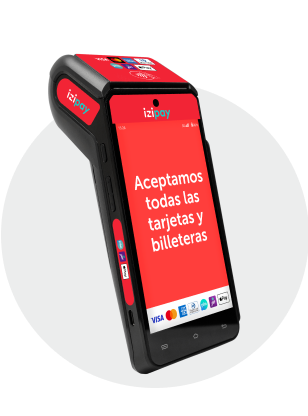
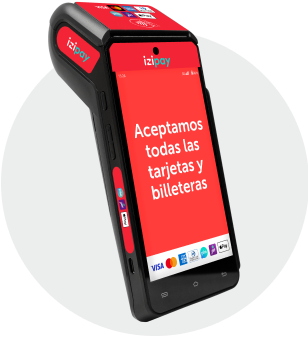
Creación de work 27 - cambio de imagenes - 3

Changed region(s): [[0.1461, 0.0, 0.789, 0.9792]]

diff --git a/works/work-27/styles.css b/works/work-27/styles.css
@@ -1,1 +1,1 @@
-@charset "UTF-8";:root{--primary:#00a94f;--secondary:#0039a6;--blue:#2f4a9f;--secondaryrgb:rgb(0,57,166);--light:#fbfbfb;--white:#fff;--silver:#d9dadb;--gray:#9b9b9b;--sky:#ccd7ed;--semiwhite:#f3f6fb;--skydark:#6688ca;--dark:#404040;--darkrgb:rgb(15,25,30);--blackrgb:rgb(15,25,30)}.mk-bold{font-weight:700}.mk-semibold{font-weight:500}.mk-container{margin:0 auto;width:100%;max-width:1066px}@media (max-width:1023px){.mk-container{padding:0 24px}}.mk-list--decimal{padding-left:20px;list-style:decimal}.mk-list--disc li{position:relative;padding-left:20px}.mk-list--disc li:before{display:-webkit-box;display:-ms-flexbox;display:flex;position:absolute;content:"·";font-size:30px;line-height:20px;left:6px;top:2px}.mkv27--overlay{background-color:rgba(0,0,0,0.4);position:fixed;top:0;bottom:0;left:0;right:0;width:100vw;height:100vh;z-index:99}.mkv27--popup{position:fixed;display:-webkit-box;display:-ms-flexbox;display:flex;-webkit-box-pack:center;-ms-flex-pack:center;justify-content:center;-webkit-box-align:center;-ms-flex-align:center;align-items:center;width:100vw;height:100vh;top:0;bottom:0;left:0;right:0;padding:16px}.mkv27 *{-webkit-box-sizing:border-box;box-sizing:border-box;margin:0;padding:0;border:none}.mkv27--wrapper{overflow:hidden;width:100%;max-width:600px;border-radius:8px;background:#fff;-webkit-box-shadow:0 4px 10px 0 #9b9b9b;box-shadow:0 4px 10px 0 #9b9b9b}.mkv27--wrapper__content{padding:24px}@media (min-width:480px){.mkv27--wrapper__content{padding:32px}}.mkv27--grid{display:-webkit-box;display:-ms-flexbox;display:flex;-webkit-box-orient:vertical;-webkit-box-direction:normal;-ms-flex-direction:column;flex-direction:column;position:relative}.mkv27--header{position:relative;width:100%}@media (min-width:560px){.mkv27--header__title{padding-left:52px;padding-right:52px}}.mkv27--close{position:relative;width:24px;height:24px;z-index:10}.mkv27--close:after,.mkv27--close:before{content:"";display:block;background:var(--white);margin-bottom:4px;border-radius:2px;width:28px;height:2px;position:absolute;left:50%;top:0;cursor:pointer}@media (min-width:480px){.mkv27--close:after,.mkv27--close:before{background:var(--dark)}}.mkv27--close:before{-webkit-transform:rotate(45deg) translate(-1px,18px);transform:rotate(45deg) translate(-1px,18px)}.mkv27--close:after{-webkit-transform:rotate(-45deg) translate(-18px,-1px);transform:rotate(-45deg) translate(-18px,-1px)}.mkv27--close__row{display:-webkit-box;display:-ms-flexbox;display:flex;-webkit-box-pack:end;-ms-flex-pack:end;justify-content:flex-end}.mkv27--body{width:100%;padding:32px 24px;display:-webkit-box;display:-ms-flexbox;display:flex;-webkit-box-orient:vertical;-webkit-box-direction:normal;-ms-flex-direction:column;flex-direction:column;-webkit-box-align:center;-ms-flex-align:center;align-items:center;-webkit-box-pack:center;-ms-flex-pack:center;justify-content:center}@media (min-width:560px){.mkv27--body{padding:40px 32px}}.mkv27--body__grid{display:-ms-grid;display:grid;-ms-grid-columns:2fr 5fr;grid-template-columns:2fr 5fr}.mkv27--title{color:#0f191e;width:100%;font-family:"Geometria";text-align:center;font-size:20px;line-height:24px;margin-bottom:12px;font-weight:500}.mkv27--title__magenta{color:#eb0045}@media (min-width:560px){.mkv27--title{font-size:28px;line-height:32px}}@media (min-width:767px){.mkv27--title{margin-bottom:24px}}.mkv27--content{color:#333;font-size:14px;font-family:"Geometria";letter-spacing:-0.1px;line-height:1.35;margin-bottom:32px}@media (min-width:560px){.mkv27--content{margin-bottom:40px;font-size:16px}}@media (min-width:767px){.mkv27--content{margin-bottom:48px;font-size:16px}}.mkv27--content strong{font-weight:600}.mkv27--btnsinline{display:-webkit-box;display:-ms-flexbox;display:flex;-webkit-box-orient:vertical;-webkit-box-direction:normal;-ms-flex-direction:column;flex-direction:column}@media (min-width:767px){.mkv27--btnsinline{-webkit-box-align:center;-ms-flex-align:center;align-items:center;-webkit-box-orient:horizontal;-webkit-box-direction:reverse;-ms-flex-direction:row-reverse;flex-direction:row-reverse}}.mkv27--btn{color:var(--white);font-family:"Geometria";font-size:16px;letter-spacing:normal;text-align:center;text-decoration:none;line-height:40px;border-radius:20px;background-color:var(--primary);display:-webkit-inline-box;display:-ms-inline-flexbox;display:inline-flex;white-space:nowrap;padding:0 28px;font-weight:500}@media (min-width:767px){.mkv27--btn{padding:0 28px;border-radius:24px;line-height:48px}}@media (max-width:766px){.mkv27--btn{margin-bottom:12px}}.mkv27--btn_white{color:var(--primary);font-family:"Geometria";font-size:16px;white-space:nowrap;letter-spacing:normal;text-align:center;text-decoration:none;line-height:40px;border-radius:20px;background-color:transparent;display:-webkit-inline-box;display:-ms-inline-flexbox;display:inline-flex;padding:0 24px;font-weight:500}@media (min-width:480px){.mkv27--btn_white{padding:0 24px;border-radius:24px;line-height:48px}}@media (min-width:480px){.mkv27--picture{height:100%;width:100%;display:-webkit-box;display:-ms-flexbox;display:flex}}.mkv27--picture_content{width:100%;position:relative}@media (min-width:480px){.mkv27--picture_content{height:100%;display:-webkit-box;display:-ms-flexbox;display:flex}}.mkv27--profile_content{width:100%;position:relative}.mkv27--image_background{width:100%;display:block}@media (min-width:480px){.mkv27--image_background{-o-object-fit:cover;object-fit:cover}}.mkv27--image_profile{position:absolute;-webkit-transform:translateX(-50%);transform:translateX(-50%);width:64px;left:50%;bottom:0}@media (min-width:480px){.mkv27--image_profile{width:90px}}
+@charset "UTF-8";:root{--primary:#00a94f;--secondary:#0039a6;--blue:#2f4a9f;--secondaryrgb:rgb(0,57,166);--light:#fbfbfb;--white:#fff;--silver:#d9dadb;--gray:#9b9b9b;--sky:#ccd7ed;--semiwhite:#f3f6fb;--skydark:#6688ca;--dark:#404040;--darkrgb:rgb(15,25,30);--blackrgb:rgb(15,25,30)}.mk-bold{font-weight:700}.mk-semibold{font-weight:500}.mk-container{margin:0 auto;width:100%;max-width:1066px}@media (max-width:1023px){.mk-container{padding:0 24px}}.mk-list--decimal{padding-left:20px;list-style:decimal}.mk-list--disc li{position:relative;padding-left:20px}.mk-list--disc li:before{display:-webkit-box;display:-ms-flexbox;display:flex;position:absolute;content:"·";font-size:30px;line-height:20px;left:6px;top:2px}.mkv27--overlay{background-color:rgba(0,0,0,0.4);position:fixed;top:0;bottom:0;left:0;right:0;width:100vw;height:100vh;z-index:99}.mkv27--popup{position:fixed;display:-webkit-box;display:-ms-flexbox;display:flex;-webkit-box-pack:center;-ms-flex-pack:center;justify-content:center;-webkit-box-align:center;-ms-flex-align:center;align-items:center;width:100vw;height:100vh;top:0;bottom:0;left:0;right:0;padding:16px}.mkv27 *{-webkit-box-sizing:border-box;box-sizing:border-box;margin:0;padding:0;border:none}.mkv27--wrapper{overflow:hidden;width:100%;max-width:600px;border-radius:8px;background:#fff;-webkit-box-shadow:0 4px 10px 0 #9b9b9b;box-shadow:0 4px 10px 0 #9b9b9b}.mkv27--wrapper__content{padding:24px}@media (min-width:480px){.mkv27--wrapper__content{padding:32px}}.mkv27--grid{display:-webkit-box;display:-ms-flexbox;display:flex;-webkit-box-orient:vertical;-webkit-box-direction:normal;-ms-flex-direction:column;flex-direction:column;position:relative}.mkv27--header{position:relative;width:100%;margin-bottom:24px}@media (min-width:560px){.mkv27--header__title{padding-left:52px;padding-right:52px}}.mkv27--close{position:relative;width:24px;height:24px;z-index:10}.mkv27--close:after,.mkv27--close:before{content:"";display:block;background:var(--white);margin-bottom:4px;border-radius:2px;width:28px;height:2px;position:absolute;left:50%;top:0;cursor:pointer}@media (min-width:480px){.mkv27--close:after,.mkv27--close:before{background:var(--dark)}}.mkv27--close:before{-webkit-transform:rotate(45deg) translate(-1px,18px);transform:rotate(45deg) translate(-1px,18px)}.mkv27--close:after{-webkit-transform:rotate(-45deg) translate(-18px,-1px);transform:rotate(-45deg) translate(-18px,-1px)}.mkv27--close__row{display:-webkit-box;display:-ms-flexbox;display:flex;-webkit-box-pack:end;-ms-flex-pack:end;justify-content:flex-end}.mkv27--body{width:100%;display:-webkit-box;display:-ms-flexbox;display:flex;-webkit-box-orient:vertical;-webkit-box-direction:normal;-ms-flex-direction:column;flex-direction:column;-webkit-box-align:center;-ms-flex-align:center;align-items:center;-webkit-box-pack:center;-ms-flex-pack:center;justify-content:center}.mkv27--body__grid{display:-ms-grid;display:grid;-ms-grid-columns:100%;grid-template-columns:100%;gap:24px}@media (min-width:480px){.mkv27--body__grid{-ms-grid-columns:154px auto;grid-template-columns:154px auto}}.mkv27--body__left,.mkv27--body__right{display:-webkit-box;display:-ms-flexbox;display:flex;-webkit-box-orient:vertical;-webkit-box-direction:normal;-ms-flex-direction:column;flex-direction:column;-webkit-box-pack:center;-ms-flex-pack:center;justify-content:center}@media (max-width:480px){.mkv27--body__left{display:none}}.mkv27--title{color:#0f191e;width:100%;font-family:"Geometria";text-align:center;font-size:20px;line-height:24px;font-weight:500}.mkv27--title__magenta{color:#eb0045}@media (min-width:560px){.mkv27--title{font-size:28px;line-height:32px}}.mkv27--content{color:#333;font-size:14px;font-family:"Geometria";letter-spacing:-0.1px;line-height:1.35}@media (min-width:560px){.mkv27--content{font-size:16px}}@media (min-width:767px){.mkv27--content{font-size:16px}}.mkv27--content strong{font-weight:600}.mkv27--btnsinline{display:-webkit-box;display:-ms-flexbox;display:flex;-webkit-box-orient:vertical;-webkit-box-direction:normal;-ms-flex-direction:column;flex-direction:column}@media (min-width:767px){.mkv27--btnsinline{-webkit-box-align:center;-ms-flex-align:center;align-items:center;-webkit-box-orient:horizontal;-webkit-box-direction:reverse;-ms-flex-direction:row-reverse;flex-direction:row-reverse}}.mkv27--btn{color:var(--white);font-family:"Geometria";font-size:16px;letter-spacing:normal;text-align:center;text-decoration:none;line-height:40px;border-radius:20px;background-color:var(--primary);display:-webkit-inline-box;display:-ms-inline-flexbox;display:inline-flex;white-space:nowrap;padding:0 28px;font-weight:500}@media (min-width:767px){.mkv27--btn{padding:0 28px;border-radius:24px;line-height:48px}}@media (max-width:766px){.mkv27--btn{margin-bottom:12px}}.mkv27--btn_white{color:var(--primary);font-family:"Geometria";font-size:16px;white-space:nowrap;letter-spacing:normal;text-align:center;text-decoration:none;line-height:40px;border-radius:20px;background-color:transparent;display:-webkit-inline-box;display:-ms-inline-flexbox;display:inline-flex;padding:0 24px;font-weight:500}@media (min-width:480px){.mkv27--btn_white{padding:0 24px;border-radius:24px;line-height:48px}}@media (min-width:480px){.mkv27--picture{height:100%;width:100%;display:-webkit-box;display:-ms-flexbox;display:flex}}.mkv27--picture_content{width:100%;position:relative}@media (min-width:480px){.mkv27--picture_content{height:100%;display:-webkit-box;display:-ms-flexbox;display:flex}}.mkv27--profile_content{width:100%;position:relative}.mkv27--image_background{width:100%;display:block}@media (min-width:480px){.mkv27--image_background{-o-object-fit:cover;object-fit:cover}}.mkv27--image_profile{position:absolute;-webkit-transform:translateX(-50%);transform:translateX(-50%);width:64px;left:50%;bottom:0}@media (min-width:480px){.mkv27--image_profile{width:90px}}.mkv27--footer__row{display:-webkit-box;display:-ms-flexbox;display:flex;-webkit-box-pack:center;-ms-flex-pack:center;justify-content:center}

diff --git a/works/work-27/index.html b/works/work-27/index.html
@@ -4512,21 +4512,23 @@
           '<div class="mkv27--body__left">' +
           '<div class="mkv27--picture__content">' +
           '<picture class="mkv27--picture">' +
-          '<source srcset="' + options.img1x + ', ' + options.img2x + ' 2x" media="(min-width: 480px)">' +
-          '<img class="mkv27--image__background" srcset="' + options.img1x + ', ' + options.img2x + ' 2x" alt="' + clearHTMLTags(options.title) + '">' +
+          '<source srcset="' + options.img1x + '" media="(max-width: 480px)">' +
+          '<img class="mkv27--image__background" src="' + options.img2x + '" alt="' + clearHTMLTags(options.title) + '">' +
           '</picture>' +
           '</div>' +
           '</div>' +
           '<div class="mkv27--body__right">' +
           '<div class="mkv27--body__text">' +
-
           '<div class="mkv27--content">' + options.content + '</div>' +
           '<div class="mkv27--btnsinline">' +
+          '</div>' +
+          '</div>' +
+          '</div>' +
+          '</div>' +
+          '</div>' +
+          '<div class="mkv27--footer">' +
+          '<div class="mkv27--footer__row">' +
           '<a class="mkv27--btn" id="mkv27--entendido" href="' + options.link.url + '" target="' + options.link.target + '" title="' + options.link.text + '">' + options.link.text + '</a>' +
-          '<a class="mkv27--btn__white" id="mkv27--no" href="' + options.link.url + '" target="' + options.link.target + '" title="' + options.link.text + '">' + options.link.text + '</a>' +
-          '</div>' +
-          '</div>' +
-          '</div>' +
           '</div>' +
           '</div>' +
           '</div>' +
@@ -4565,7 +4567,7 @@
       copy: '*Haz clic en el botón “Entiendo” para continuar.',
       link: {
         url: '#',
-        text: 'Ábrela aquí',
+        text: 'Entendido',
         target: '_blank',
       },
       img1x: 'https://paolopacheco.github.io/ibk-media/images/derivacion-clientes-Izipay-1x.png',

diff --git a/works/work-27/styles.scss b/works/work-27/styles.scss
@@ -130,6 +130,7 @@
     &--header {
       position: relative;
       width: 100%;
+      margin-bottom: 24px;
 
       &__title {
         @include screen-min(560px) {
@@ -180,19 +181,32 @@
 
     &--body {
       width: 100%;
-      padding: 32px 24px;
       display: flex;
       flex-direction: column;
       align-items: center;
       justify-content: center;
 
-      @include screen-min(560px) {
-        padding: 40px 32px;
-      }
-
       &__grid {
         display: grid;
-        grid-template-columns: 2fr 5fr;
+        grid-template-columns: 100%;
+        gap: 24px;
+
+        @include screen-min(480px) {
+          grid-template-columns: 154px auto;
+        }
+      }
+
+      &__left,
+      &__right {
+        display: flex;
+        flex-direction: column;
+        justify-content: center;
+      }
+
+      &__left {
+        @include screen-max(480px) {
+          display: none;
+        }
       }
     }
 
@@ -203,7 +217,6 @@
       text-align: center;
       font-size: 20px;
       line-height: 24px;
-      margin-bottom: 12px;
       font-weight: 500;
 
       &__magenta {
@@ -216,7 +229,6 @@
       }
 
       @include screen-min(767px) {
-        margin-bottom: 24px;
       }
     }
 
@@ -226,15 +238,12 @@
       font-family: 'Geometria';
       letter-spacing: -0.1px;
       line-height: 1.35;
-      margin-bottom: 32px;
 
       @include screen-min(560px) {
-        margin-bottom: 40px;
         font-size: 16px;
       }
 
       @include screen-min(767px) {
-        margin-bottom: 48px;
         font-size: 16px;
       }
 
@@ -346,6 +355,13 @@
         @include screen-min(480px) {
           width: 90px;
         }
+      }
+    }
+
+    &--footer {
+      &__row {
+        display: flex;
+        justify-content: center;
       }
     }
   }
